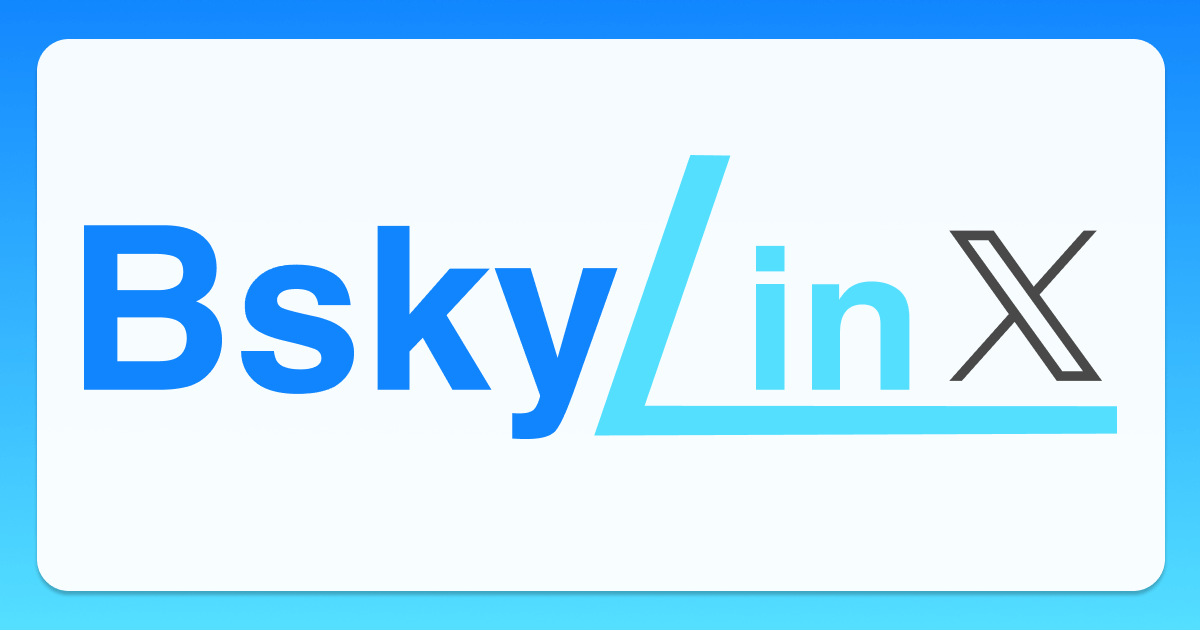
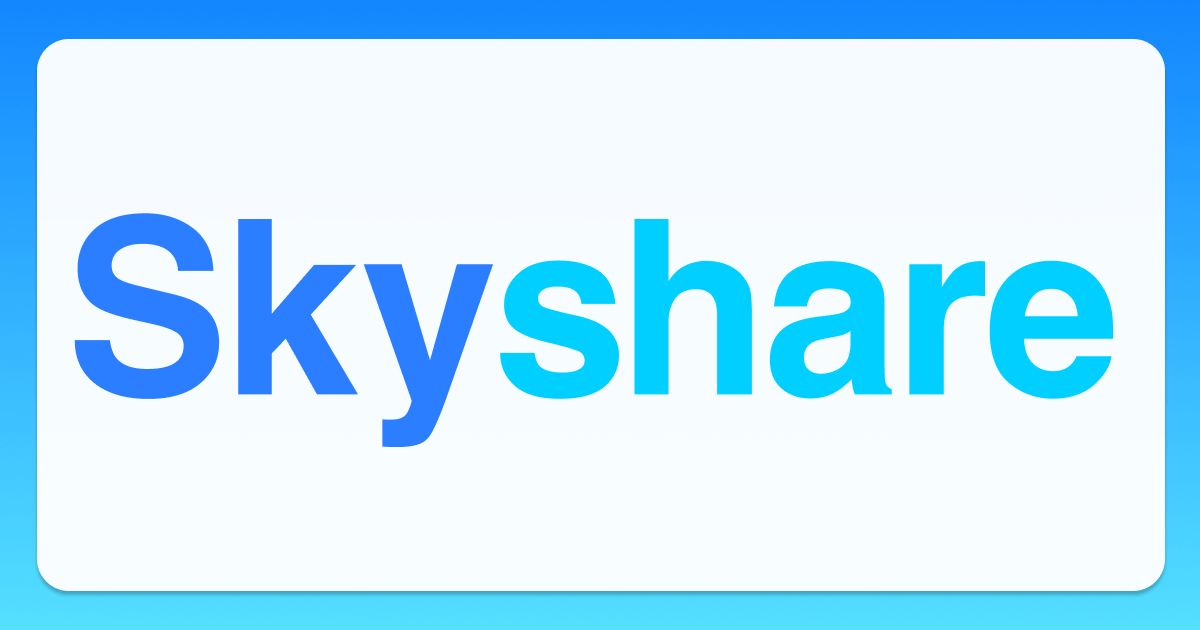
サービスロゴを変更。PWA対応

Changed region(s): [[0.0617, 0.2413, 0.9558, 0.7238], [0.8942, 0.3619, 0.925, 0.3921]]

diff --git a/src/utils/vars.ts b/src/utils/vars.ts
@@ -1,7 +1,8 @@
 export const baseurl = import.meta.env.BASE_URL
 export const siteurl = import.meta.env.SITE
-export const version = "0.1 beta"
-export const github_url = "https://github.com/nkte8/bskylinx"
+export const github_url = "https://github.com/nkte8/skyshare"
+export const zenn_profile = "https://zenn.dev/nkte8"
 export const posturl = baseurl + "app/"
 export const abouturl = baseurl + "about/"
 export const pagesPrefix = "posts"
+export const servicename = "Skyshare"

diff --git a/src/utils/tailwind_variants.ts b/src/utils/tailwind_variants.ts
@@ -27,3 +27,7 @@ export const load_circle = tv({
 		}
 	}
 })
+
+export const box = tv({
+	base: "bg-white bg-opacity-80 rounded-lg w-fit px-4 py-2 m-auto"
+})

diff --git a/README.md b/README.md
@@ -1,15 +1,15 @@
 ![](./public/materials/longlogo.svg)
 
-[Bluesky Link-𝕏 (BskyLinX)](https://bskylinx.com/) is web application that BlueSky user saves their time of boring SNS X.com(Twitter).
+[Skyshare](https://skyshare.uk/) is web application that BlueSky user saves their time of boring SNS X.com(Twitter).
 
 ## How works
 
-BskyLinX post your post to Bluesky with AT Protocol.  
-for twitter, because of X taxes, BskyLinX present Post Link: [Like that](https://twitter.com/intent/tweet?text=This&nbsp;is&nbsp;tweet&nbsp;sample.&url=https://bskylinx.com/posts/nlla.bsky.social_3kk7qzpffl22n/), can only with media by OGP image.
+Skyshare post your post to Bluesky with AT Protocol.  
+for twitter, because of X taxes, Skyshare present Post Link: [Like that](https://twitter.com/intent/tweet?text=This&nbsp;is&nbsp;tweet&nbsp;sample.&url=https://skyshare.uk/posts/nlla.bsky.social_3kk7qzpffl22n/), can only with media by OGP image.
 
 ## AT Protocol
 
-Because of [bluesky official typescript client]() seems not available works on React, BskyLinX uses REST API directry by fetch API.  
+Because of bluesky official typescript client seems not available works on React, Skyshare uses REST API directry by fetch API.  
 
 ## Build
 
